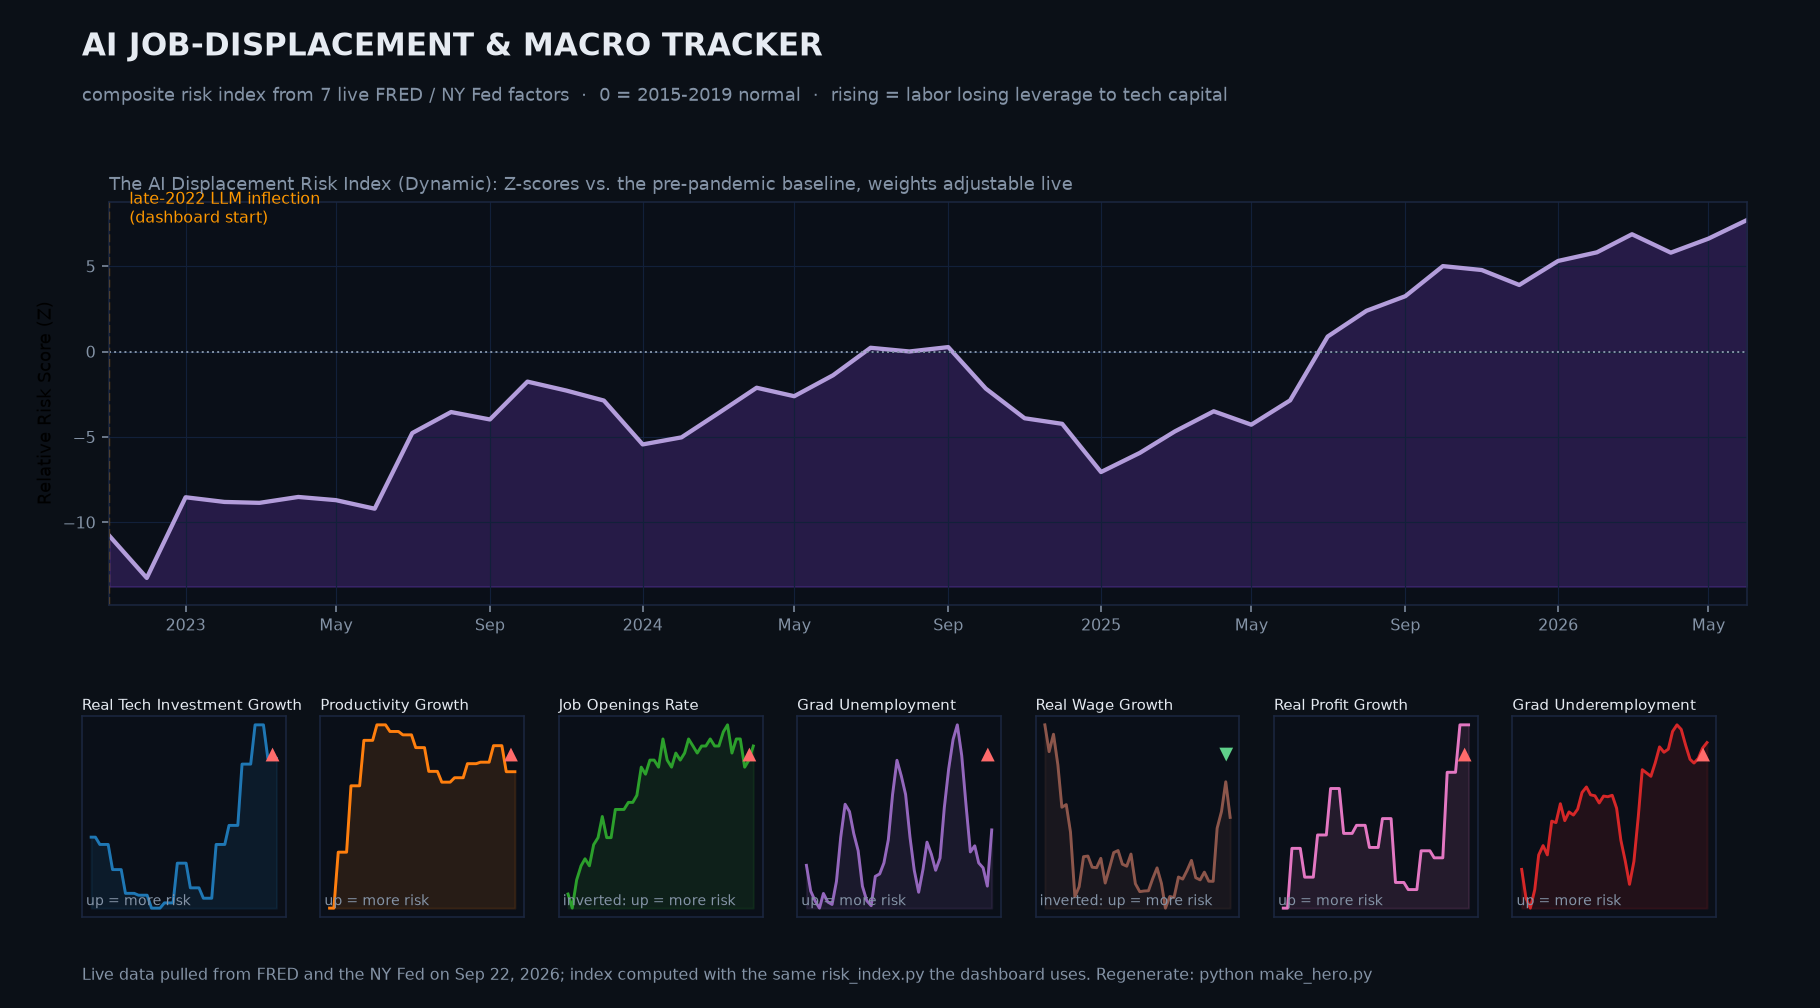
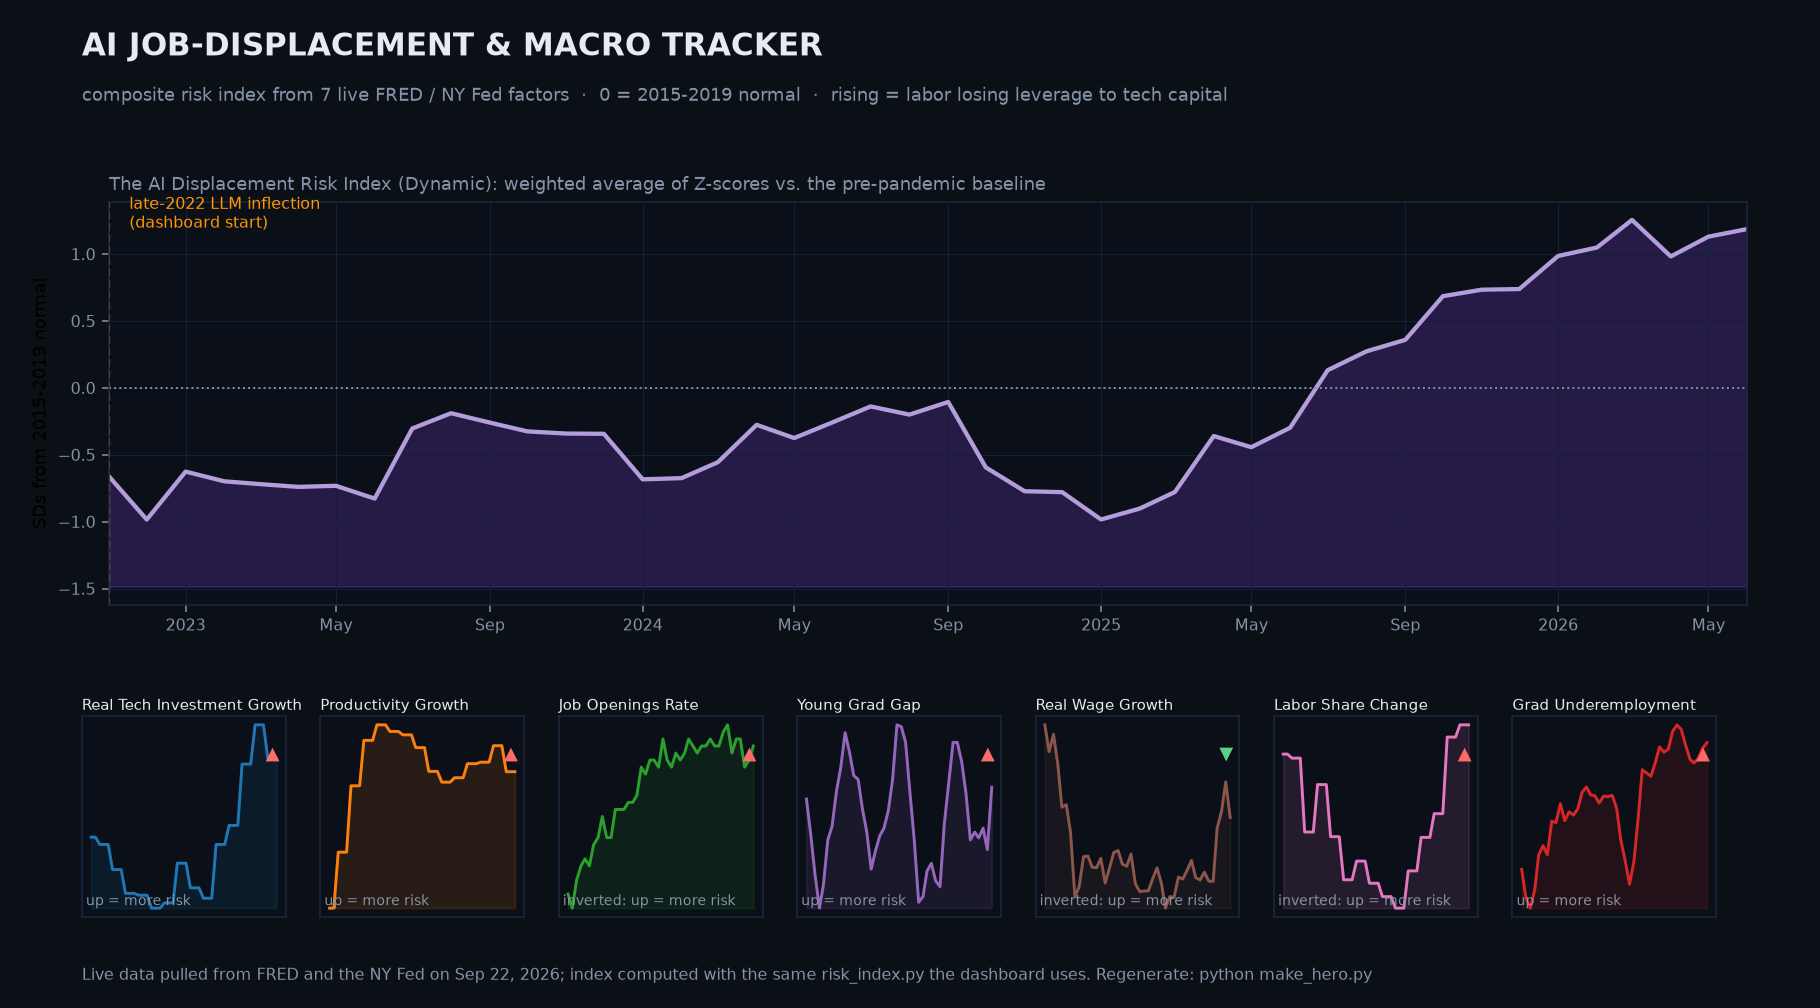
Index: grad gap vs. age peers, labor share, weighted average
- Grad unemployment replaced by the gap between bachelor's holders 20-24
  and everyone 20-24 (LNU04000036), so the business cycle cancels out
- Real corporate profit growth replaced by YoY change in nonfarm labor
  share (PRS85006173). The level was tried first but its 2015-2019
  variance is tiny, so it scored +13 and swamped every other factor
- Index is now the weighted average of Z-scores, not the sum, so it
  reads in SDs and doesn't shift scale if a source fails to load

diff --git a/app.py b/app.py
@@ -8,7 +8,7 @@ from dotenv import load_dotenv
 from macro_tracker import fetch_all_macro_data
 from bls_extractor import fetch_bls_data
 from nyfed_extractor import fetch_college_labor_data
-from risk_index import FACTORS, BASELINE, factor_scores, risk_index
+from risk_index import FACTORS, BASELINE, factor_scores, contributions
 
 # Load environment variables
 load_dotenv()
@@ -140,10 +140,9 @@ if raw_nyfed_data is not None:
     index_sources["underemp"] = raw_nyfed_data["underemployment"]["Recent graduates"]
 
 all_scores = factor_scores(index_sources)
-contributions = all_scores.mul(pd.Series(weights)[all_scores.columns], axis=1)
-contributions = contributions[contributions.index >= start_datetime]
-risk_score = risk_index(all_scores, weights)
-risk_score = risk_score[risk_score.index >= start_datetime]
+factor_shares = contributions(all_scores, weights)
+factor_shares = factor_shares[factor_shares.index >= start_datetime]
+risk_score = factor_shares.sum(axis=1)
 
 # --- MAIN UI ---
 st.title("Macro Indicators of AI Job Displacement")
@@ -152,10 +151,10 @@ st.write("Tracking the economic footprint of automation.")
 n_factors = all_scores.shape[1]
 st.header("The AI Displacement Risk Index (Dynamic)")
 st.write(
-    f"A composite of {n_factors} factors, each measured in standard deviations from its "
-    f"{BASELINE[0][:4]}-{BASELINE[1][:4]} average. **0 is the pre-pandemic normal**; "
-    "rising values mean labor is losing leverage to tech capital. Dollar series are growth rates "
-    "net of CPI inflation, so they don't trend up on their own."
+    f"The weighted average of {n_factors} factors, each measured in standard deviations from its "
+    f"{BASELINE[0][:4]}-{BASELINE[1][:4]} average. **0 is the pre-pandemic normal** and +1 means "
+    "labor is one standard deviation worse off than that. Dollar series are growth rates net of "
+    "CPI inflation, so they don't trend up on their own."
 )
 
 if not risk_score.empty:
@@ -165,18 +164,18 @@ if not risk_score.empty:
         color="#673ab7", line={'color': '#4527a0'}, opacity=0.3
     ).encode(
         x=alt.X("Date:T", title=""),
-        y=alt.Y("Value:Q", title="Relative Risk Score", scale=alt.Scale(zero=False)),
+        y=alt.Y("Value:Q", title="SDs from 2015-2019 normal", scale=alt.Scale(zero=False)),
         tooltip=["Date:T", alt.Tooltip("Value:Q", format=".2f")]
     ).properties(height=350) 
     zero = alt.Chart(pd.DataFrame({"y": [0]})).mark_rule(color="#9e9e9e", strokeDash=[4, 4]).encode(y="y:Q")
     st.altair_chart(index_chart + zero, width="stretch")
 
-    latest = contributions.iloc[-1].rename(index={k: FACTORS[k][0] for k in FACTORS}).reset_index()
+    latest = factor_shares.iloc[-1].rename(index={k: FACTORS[k][0] for k in FACTORS}).reset_index()
     latest.columns = ["Factor", "Contribution"]
-    st.subheader(f"What's driving it ({contributions.index[-1]:%b %Y})")
-    st.write("Each factor's weighted Z-score. Bars to the right push the index up.")
+    st.subheader(f"What's driving it ({factor_shares.index[-1]:%b %Y})")
+    st.write("How much each factor adds to the latest reading. The bars sum to the index.")
     drivers = alt.Chart(latest).mark_bar().encode(
-        x=alt.X("Contribution:Q", title="Weighted Z-score"),
+        x=alt.X("Contribution:Q", title="Contribution to index"),
         y=alt.Y("Factor:N", sort="-x", title=""),
         color=alt.condition(alt.datum.Contribution > 0, alt.value("#d62728"), alt.value("#2ca02c")),
         tooltip=["Factor:N", alt.Tooltip("Contribution:Q", format="+.2f")]

diff --git a/make_hero.py b/make_hero.py
@@ -42,8 +42,8 @@ macro["underemp"] = fetch_college_labor_data()["underemployment"]["Recent gradua
 scores = factor_scores(macro)
 scores = scores[scores.index >= START]
 risk = risk_index(scores)
-COLORS = {"tech": "#1f77b4", "prod": "#ff7f0e", "jobs": "#2ca02c", "unemp": "#9467bd",
-          "wage": "#8c564b", "prof": "#e377c2", "underemp": "#d62728"}
+COLORS = {"tech": "#1f77b4", "prod": "#ff7f0e", "jobs": "#2ca02c", "gap": "#9467bd",
+          "wage": "#8c564b", "labshare": "#e377c2", "underemp": "#d62728"}
 print(f"[*] Index: {len(risk)} points, {risk.index[0]:%b %Y} -> {risk.index[-1]:%b %Y}")
 
 plt.rcParams.update({"font.family": "DejaVu Sans", "text.color": INK,
@@ -66,11 +66,11 @@ ax.text(START + pd.Timedelta(days=12), ax.get_ylim()[1] * 0.86,
         " late-2022 LLM inflection\n (dashboard start)", color="#ff9800", fontsize=8)
 ax.xaxis.set_major_locator(mdates.AutoDateLocator())
 ax.xaxis.set_major_formatter(mdates.ConciseDateFormatter(ax.xaxis.get_major_locator()))
-ax.set_ylabel("Relative Risk Score (Z)", fontsize=9)
+ax.set_ylabel("SDs from 2015-2019 normal", fontsize=9)
 ax.tick_params(colors=DIM, labelsize=8)
 ax.grid(color="#12203a", lw=0.6)
 ax.set_xlim(START, risk.index[-1])  # keep the LLM-inflection marker in frame
-ax.set_title("The AI Displacement Risk Index (Dynamic): Z-scores vs. the pre-pandemic baseline, weights adjustable live",
+ax.set_title("The AI Displacement Risk Index (Dynamic): weighted average of Z-scores vs. the pre-pandemic baseline",
              fontsize=9.5, color=DIM, loc="left", pad=6)
 
 # ---- bottom: the contributing factors (already signed, so up = more risk) ----
@@ -85,7 +85,7 @@ for i, k in enumerate(scores.columns):
     for sp in axp.spines.values():
         sp.set_edgecolor("#1b2740")
     up = z.iloc[-1] >= z.iloc[0]
-    axp.set_title(name.replace("Real Corporate Profit", "Real Profit"), fontsize=7.6, color=INK, loc="left", pad=3)
+    axp.set_title(name, fontsize=7.6, color=INK, loc="left", pad=3)
     axp.text(0.02, 0.06, "up = more risk" if sign > 0 else "inverted: up = more risk",
              transform=axp.transAxes, fontsize=7.2, color=DIM)
     axp.text(0.97, 0.85, "▲" if up else "▼", transform=axp.transAxes,

diff --git a/risk_index.py b/risk_index.py
@@ -8,6 +8,9 @@ and rates stay as rates.
 Every factor is then Z-scored against a fixed pre-pandemic baseline
 (2015-2019), so 0 means "normal before COVID and before LLMs" and a value
 doesn't change when you move the dashboard's start date.
+
+The index is the weighted average of those Z-scores, so it stays in
+standard-deviation units however many factors loaded.
 """
 import pandas as pd
 
@@ -19,9 +22,9 @@ FACTORS = {
     "tech":     ("Real Tech Investment Growth", +1, "real_yoy_q", "total_tech_investment"),
     "prod":     ("Productivity Growth", +1, "yoy_q", "productivity"),
     "jobs":     ("Job Openings Rate", -1, "level", "job_openings_rate"),
-    "unemp":    ("Grad Unemployment", +1, "ma3", "grad_unemp"),
+    "gap":      ("Young Grad Gap", +1, "ma3", "young_grad_gap"),
     "wage":     ("Real Wage Growth", -1, "real_yoy_m", "wages"),
-    "prof":     ("Real Corporate Profit Growth", +1, "real_yoy_q", "profits"),
+    "labshare": ("Labor Share Change", -1, "yoy_q", "labor_share"),
     "underemp": ("Grad Underemployment", +1, "level", "underemp"),
 }
 
@@ -73,8 +76,18 @@ def factor_scores(sources):
     return pd.DataFrame(scores).dropna()
 
 
-def risk_index(scores, weights=None):
-    """Weighted sum of factor Z-scores. weights: dict key -> float (default 1)."""
+def contributions(scores, weights=None):
+    """
+    Each factor's share of the index: weight * Z-score / total weight.
+    Summing across a row gives the index. weights: dict key -> float (default 1).
+    """
     weights = weights or {}
-    w = pd.Series({k: weights.get(k, 1.0) for k in scores.columns})
-    return (scores * w).sum(axis=1)
+    w = pd.Series({k: weights.get(k, 1.0) for k in scores.columns}, dtype=float)
+    if w.sum() == 0:
+        return scores * 0
+    return scores * w / w.sum()
+
+
+def risk_index(scores, weights=None):
+    """Weighted average of factor Z-scores."""
+    return contributions(scores, weights).sum(axis=1)

diff --git a/macro_tracker.py b/macro_tracker.py
@@ -42,6 +42,8 @@ def fetch_all_macro_data(api_key=None, start_date="2014-01-01"):
         "grad_unemp_2534": "CGBD2534",   # Bachelor's, 25-34 years old
         "grad_unemp_25o": "CGBD25O",     # Bachelor's, 25 and over
         "master_unemp_25o": "CGMD25O",   # Master's, 25 and over
+        "unemp_2024": "LNU04000036",     # Everyone 20-24 years old (same survey, also not seasonally adjusted)
+        "labor_share": "PRS85006173",    # Nonfarm business labor share, 2017=100
         "wages": "CES0500000003",        # Avg Hourly Earnings
         "profits": "CP",                 # Corporate Profits
         "cpi": "CPIAUCSL"                # CPI, to turn nominal growth into real growth
@@ -65,6 +67,13 @@ def fetch_all_macro_data(api_key=None, start_date="2014-01-01"):
     else:
         data["total_tech_investment"] = pd.Series(dtype=float)
 
+    # Young grads vs. everyone their age. Age and the business cycle hit both
+    # groups, so what's left is the value of the degree itself.
+    if not data["grad_unemp"].empty and not data["unemp_2024"].empty:
+        data["young_grad_gap"] = (data["grad_unemp"] - data["unemp_2024"]).dropna()
+    else:
+        data["young_grad_gap"] = pd.Series(dtype=float)
+
     # 4. Clean up any trailing NaN values (if one series hasn't released this month's data yet)
     for key in data:
         if not data[key].empty:
@@ -79,6 +88,8 @@ def fetch_all_macro_data(api_key=None, start_date="2014-01-01"):
         "grad_unemp_2534": data["grad_unemp_2534"],
         "grad_unemp_25o": data["grad_unemp_25o"],
         "master_unemp_25o": data["master_unemp_25o"],
+        "young_grad_gap": data["young_grad_gap"],
+        "labor_share": data["labor_share"],
         "wages": data["wages"],
         "profits": data["profits"],
         "cpi": data["cpi"]

diff --git a/README.md b/README.md
@@ -11,19 +11,20 @@ It tracks a mix of macroeconomic indicators and micro-level labor data, and calc
 ### What it tracks
 
 * **Macro trends:** Total tech investment, labor productivity, and national job openings.
-* **Labor health:** Recent graduate unemployment, average wage growth, and corporate profits.
+* **Labor health:** Recent graduate unemployment, average wage growth, corporate profits, and labor's share of output.
 * **Micro tech trends:** Layoffs and hiring demand specifically within the Information Sector (software, data, and web).
 * **The graduate squeeze:** Recent-grad unemployment versus all workers, grad underemployment, and outcomes by college major (is Computer Science still a safe bet?).
 
 ### How the risk index works
 
-Every factor gets put on the same footing before it's added up:
+Every factor gets put on the same footing before it's combined:
 
-1. **Things that grow on their own become growth rates.** Tech investment, productivity, wages, and corporate profits all trend up over time no matter what AI is doing, so the index uses their year-over-year growth instead. The three dollar series have CPI inflation subtracted, which matters a lot in 2021-2023: nominal wages were rising fast but real wages were falling.
-2. **Rates stay as rates.** The job openings rate, recent-grad unemployment, and grad underemployment already mean something on their own. Grad unemployment isn't seasonally adjusted, so it gets a 3-month average.
-3. **Everything is scored against 2015-2019.** Each factor becomes a Z-score relative to its pre-pandemic, pre-LLM average. So 0 is "normal," and +2 means two standard deviations worse for labor than that stretch was.
-4. **Signs point the same way.** Factors where a higher number is good for workers (job openings, real wage growth) are flipped, so up always means more risk.
-5. **Weighted sum.** The sidebar sliders set each factor's weight. Changing the start date only crops the chart; it doesn't rescore anything.
+1. **Things that trend on their own become growth rates.** Tech investment, productivity, wages, and labor share all drift over time no matter what AI is doing, so the index uses their year-over-year change instead. Tech investment and wages have CPI inflation subtracted, which matters a lot in 2021-2023: nominal wages were rising fast but real wages were falling.
+2. **Rates stay as rates.** The job openings rate and grad underemployment already mean something on their own.
+3. **Grads are compared to their own age group.** A recession pushes up unemployment for everyone, so raw grad unemployment mostly tracks the business cycle. The index uses the gap between bachelor's holders aged 20-24 and everyone aged 20-24 instead. Age and the cycle hit both groups, so what's left is what the degree is worth. In 2014 young grads' unemployment ran about 4 points below their peers'; in 2026 the edge is down to about half a point. Both series come from the same survey and aren't seasonally adjusted, so the gap gets a 3-month average.
+4. **Labor share is the most direct measure.** It's workers' share of business output, which is pretty much the definition of labor losing leverage to capital.
+5. **Everything is scored against 2015-2019.** Each factor becomes a Z-score relative to its pre-pandemic, pre-LLM average, and factors where a higher number is good for workers get flipped. So 0 is "normal" and up always means more risk.
+6. **Weighted average.** The sidebar sliders set each factor's weight, and the index is the weighted average, so +1 means one standard deviation worse for labor than 2015-2019. Because it's an average, the scale doesn't shift if a source fails to load. Changing the start date only crops the chart; it doesn't rescore anything.
 
 Quarterly series fill the months inside their own quarter and nothing past it, so the index is monthly and ends at the last month every factor has data for. The math lives in `risk_index.py`, which both the dashboard and `make_hero.py` import.
 
